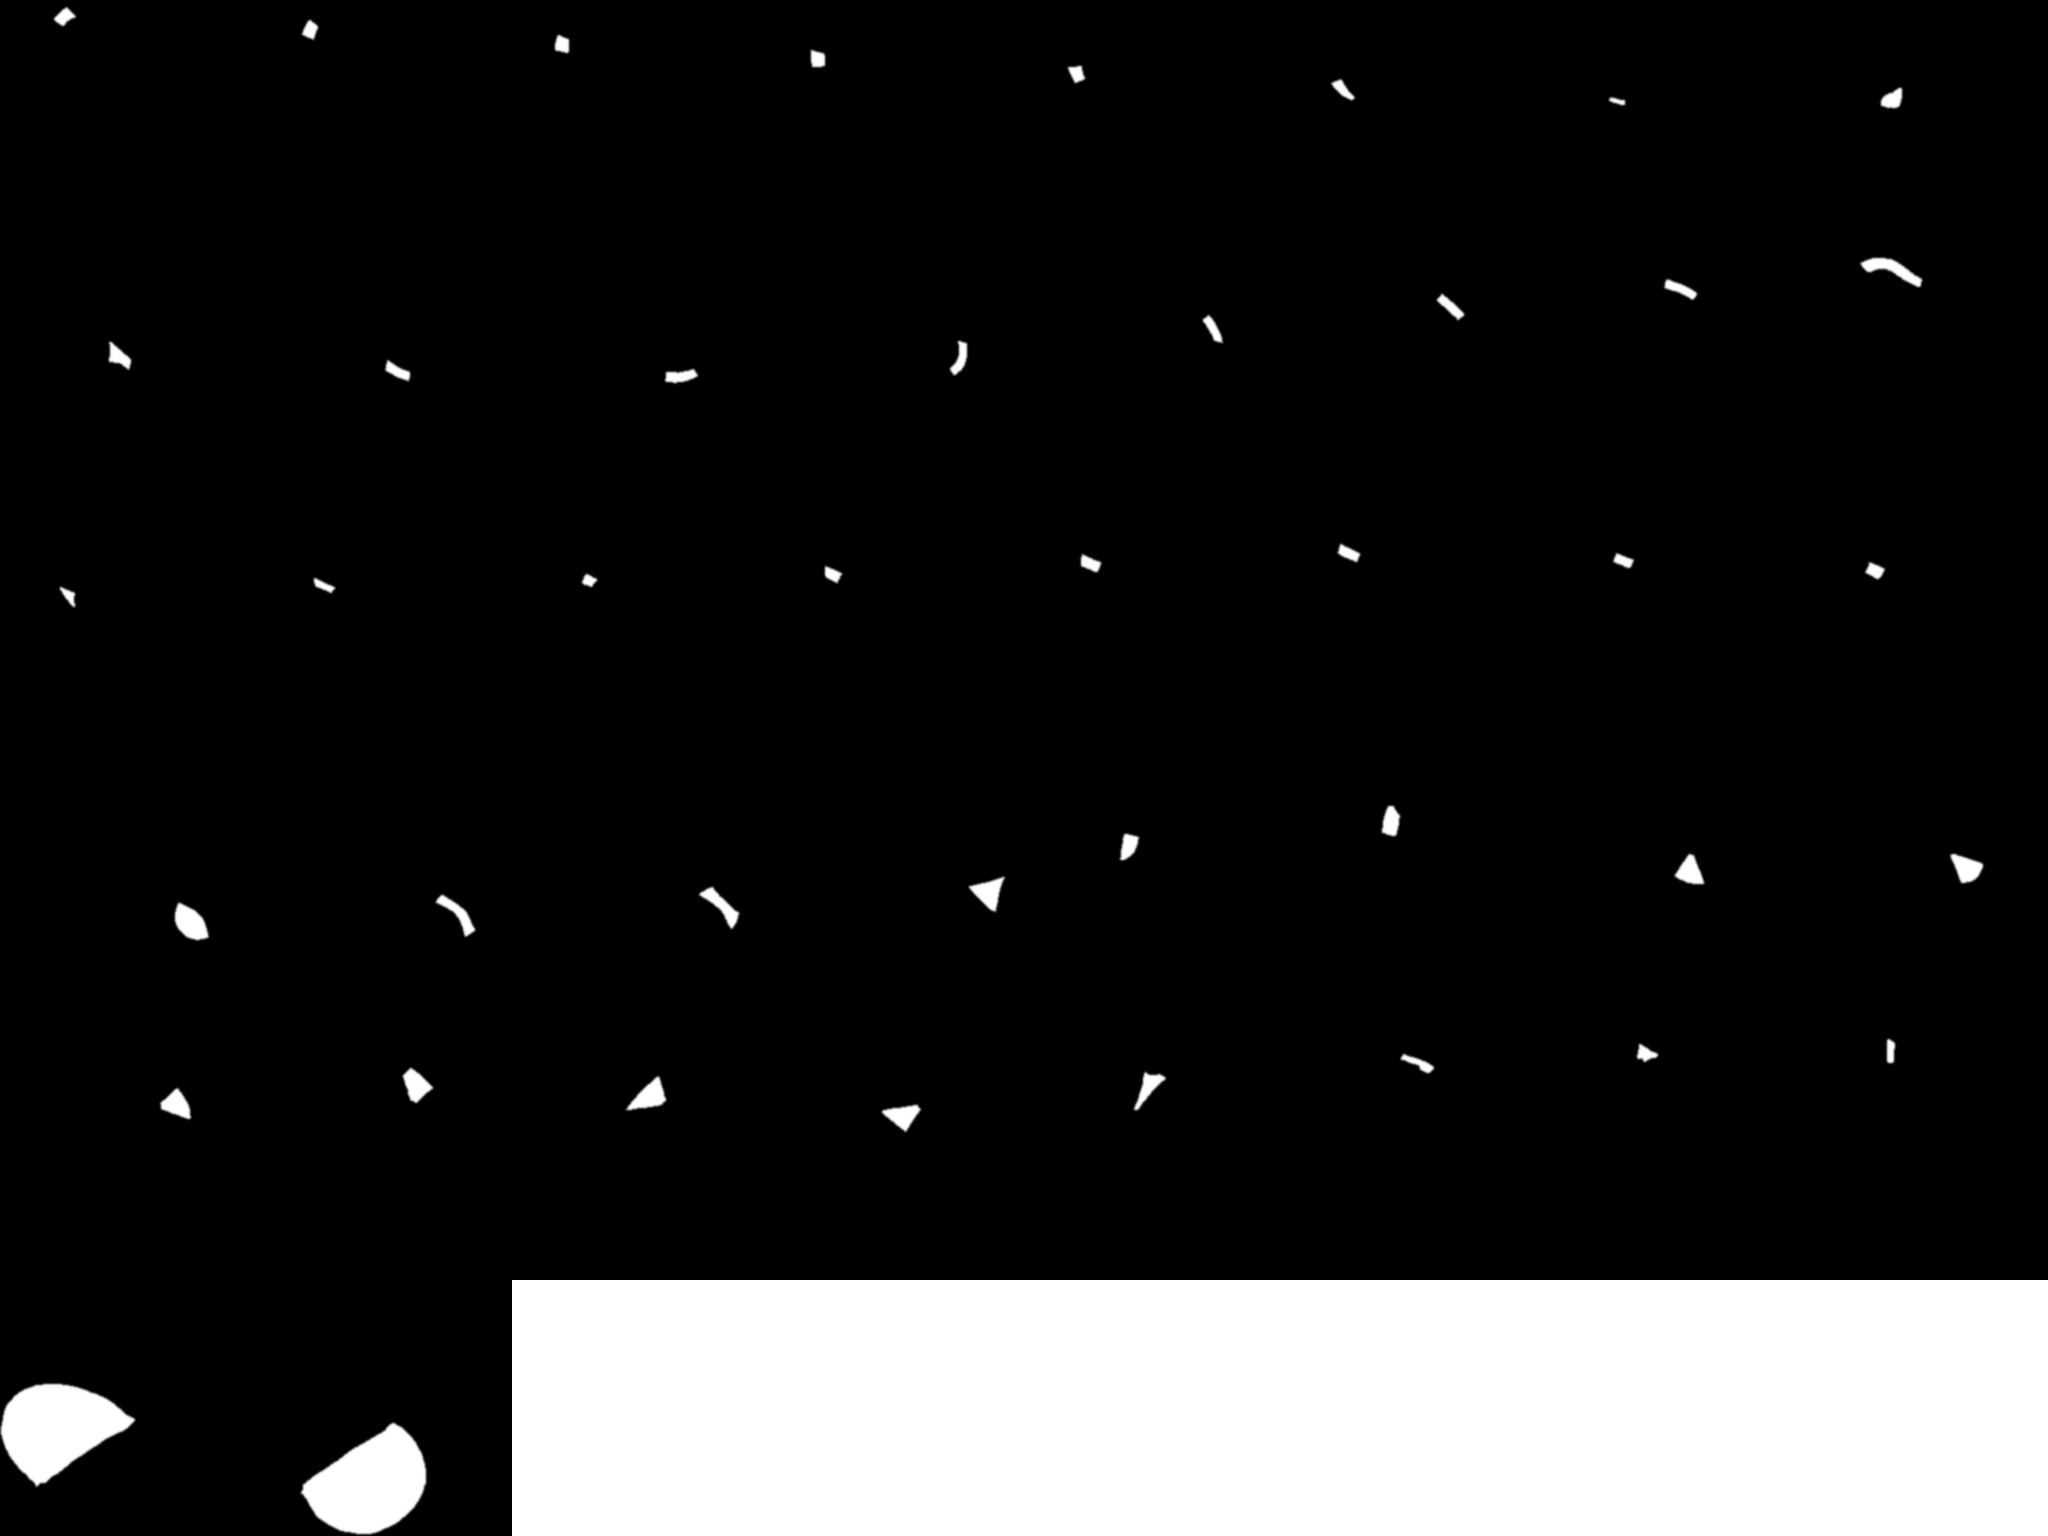
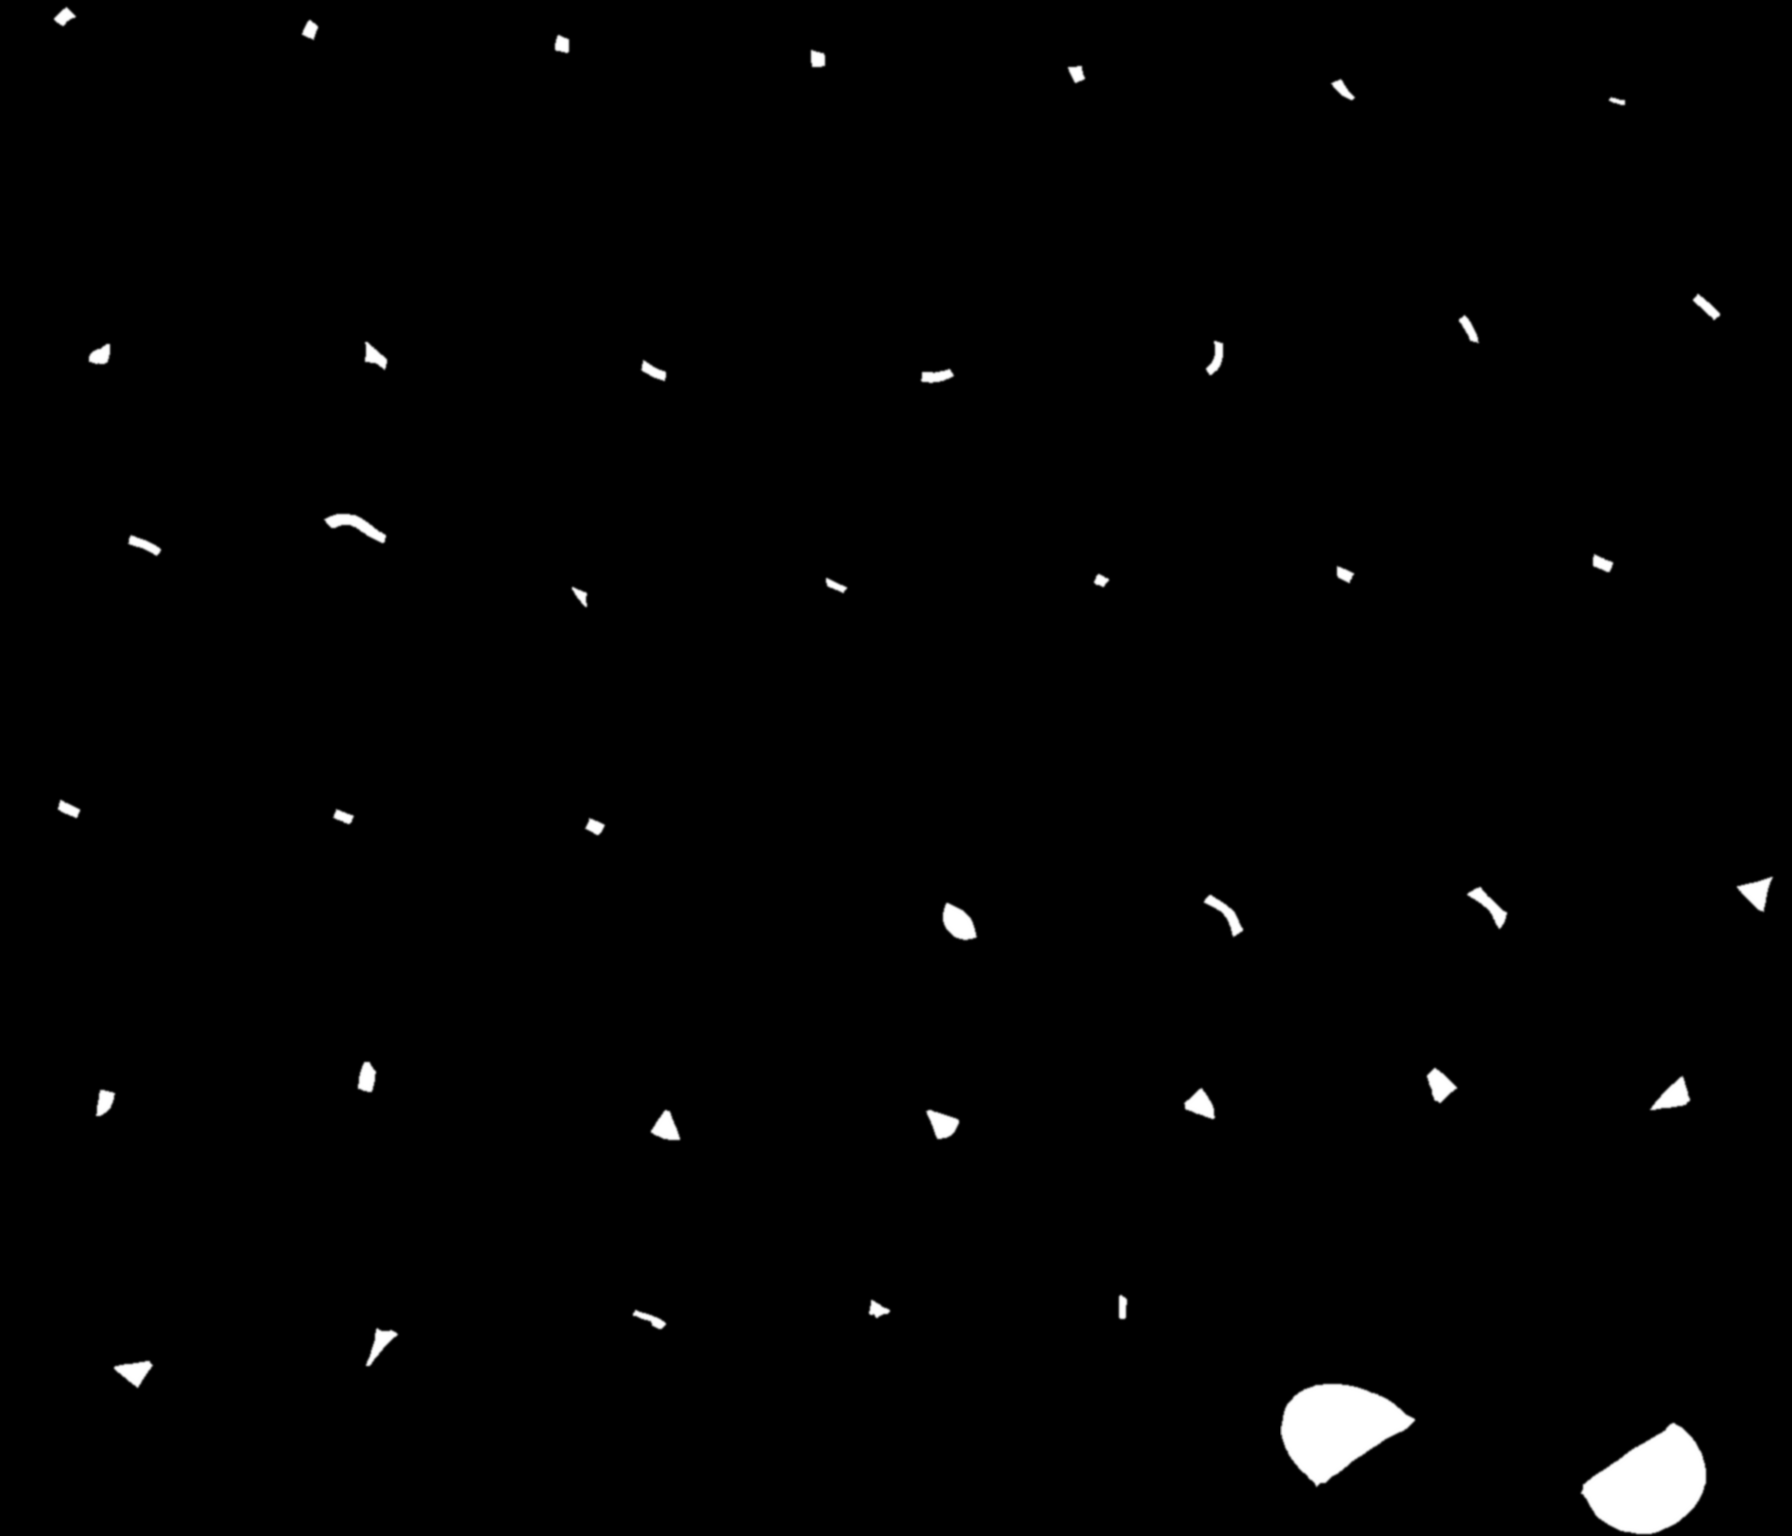
Use 7 columns for the atlas and remove mapping

diff --git a/src/scene/LiverModel.ts b/src/scene/LiverModel.ts
@@ -63,44 +63,6 @@ export class LiverModel {
     offsetX: 0,
     offsetY: 0,
     idOffset: 0,
-    idMap: {
-      // Row 0 (1-8) should map to Row 4 (33-40)
-      1: 33,
-      2: 34,
-      3: 35,
-      4: 36,
-      5: 37,
-      6: 38,
-      7: 39,
-      8: 40,
-      // Row 1 (9-16) should map to Row 3 (25-32)
-      9: 25,
-      10: 26,
-      11: 27,
-      12: 28,
-      13: 29,
-      14: 30,
-      15: 31,
-      16: 32,
-      // Row 3 (25-32) should map to Row 1 (9-16)
-      25: 9,
-      26: 10,
-      27: 11,
-      28: 12,
-      29: 13,
-      30: 14,
-      31: 15,
-      32: 16,
-      // Row 4 (33-40) should map to Row 0 (1-8)
-      33: 1,
-      34: 2,
-      35: 3,
-      36: 4,
-      37: 5,
-      38: 6,
-      39: 7,
-      40: 8,
-    },
   }
 
   private currentHoveredId: number = 0
@@ -562,15 +524,19 @@ export class LiverModel {
     const { flipX, flipY, repeatScaleX, repeatScaleY, offsetX, offsetY } =
       this.atlasTweak
 
+    const scaledRepeatX = baseU * (repeatScaleX || 1)
+    const scaledRepeatY = baseV * (repeatScaleY || 1)
+
+    // For negative repeats, offset to the far edge so the sampled band stays on the intended tile.
+    const repeatX = (flipX ? -1 : 1) * scaledRepeatX
+    const repeatY = (flipY ? -1 : 1) * scaledRepeatY
+
+    const atlasOffsetX = (flipX ? tile.col + 1 : tile.col) * baseU + offsetX
+    const atlasOffsetY = (flipY ? tile.row + 1 : tile.row) * baseV + offsetY
+
     return {
-      repeat: new THREE.Vector2(
-        (flipX ? -1 : 1) * baseU * (repeatScaleX || 1),
-        (flipY ? -1 : 1) * baseV * (repeatScaleY || 1),
-      ),
-      offset: new THREE.Vector2(
-        (flipX ? (tile.col + 1) * baseU : tile.col * baseU) + offsetX,
-        (flipY ? 1 - (tile.row + 1) * baseV : tile.row * baseV) + offsetY,
-      ),
+      repeat: new THREE.Vector2(repeatX, repeatY),
+      offset: new THREE.Vector2(atlasOffsetX, atlasOffsetY),
     }
   }
 

diff --git a/scripts/create_segmentation_map.py b/scripts/create_segmentation_map.py
@@ -228,7 +228,7 @@ def main():
     parser.add_argument('--atlas-output', default='src/assets/segmentation_atlas.png', help='Output path for atlas PNG')
     parser.add_argument('--atlas-meta', default='src/assets/segmentation_atlas.json', help='Output path for atlas JSON metadata')
     parser.add_argument('--tile', type=int, default=256, help='Atlas tile size in pixels (default: 256)')
-    parser.add_argument('--cols', type=int, default=8, help='Atlas number of columns (default: 8)')
+    parser.add_argument('--cols', type=int, default=7, help='Atlas number of columns (default: 7)')
     
     args = parser.parse_args()
     
